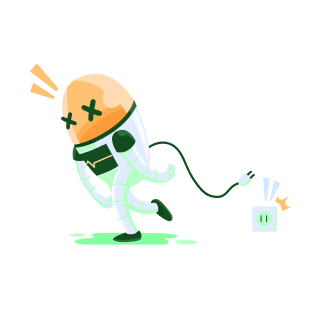
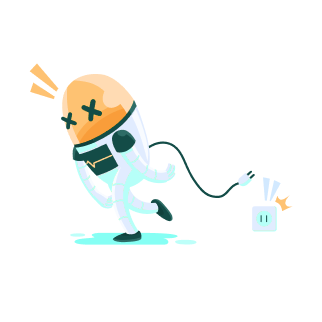
feat: switch brand color from green to Persian turquoise
Swap every green hex (main, hover, borders, secondary, tint, loader,
scrollbar) for its turquoise counterpart, and hue-shift the green
icons, illustrations and logo to match.

diff --git a/src/layout/Header.js b/src/layout/Header.js
@@ -11,7 +11,7 @@ import { useGetUserInfo } from "@/hooks/queries";
 import UserProfile from "@/atoms/userProfile";
 import ThemeToggle from "@/atoms/ThemeToggle";
 
-// `mono` icons are near-black and get inverted in dark mode; home.png is already green.
+// `mono` icons are near-black and get inverted in dark mode; home.png is already brand-colored.
 const navLinks = [
   { href: "/", label: "صفحه اصلی", icon: "/images/home.png", alt: "home-img" },
   {
@@ -130,7 +130,7 @@ export default function Header() {
                     href={link.href}
                     className={`text-base no-underline ${
                       active
-                        ? "font-semibold text-[#28a745]"
+                        ? "font-semibold text-[#0d9488]"
                         : "font-normal text-text"
                     }`}
                   >
@@ -156,8 +156,8 @@ export default function Header() {
               <li key={link.label}>
                 <Link
                   href={link.href}
-                  className={`text-base font-normal no-underline transition-colors duration-300 hover:text-[#1ea34a] md:text-[15px] lg:text-base ${
-                    pathname === link.href ? "text-[#28a745]" : "text-text"
+                  className={`text-base font-normal no-underline transition-colors duration-300 hover:text-[#0f766e] md:text-[15px] lg:text-base ${
+                    pathname === link.href ? "text-[#0d9488]" : "text-text"
                   }`}
                 >
                   {link.label}
@@ -172,7 +172,7 @@ export default function Header() {
             <UserProfile data={user} />
           ) : (
             <button
-              className="flex h-[30px] cursor-pointer items-center gap-1.5 rounded-lg border-2 border-solid border-[#1ea34a] bg-transparent text-sm font-semibold text-[#1ea34a] transition-all duration-300 hover:bg-[#6eff9e] hover:text-white md:px-2.5 md:py-[15px]"
+              className="flex h-[30px] cursor-pointer items-center gap-1.5 rounded-lg border-2 border-solid border-[#0f766e] bg-transparent text-sm font-semibold text-[#0f766e] transition-all duration-300 hover:bg-[#0f766e] hover:text-white md:px-2.5 md:py-[15px]"
               onClick={() => setIsOn((s) => !s)}
             >
               <Image

diff --git a/src/components/modules/Call.js b/src/components/modules/Call.js
@@ -5,13 +5,13 @@ import Link from "next/link";
 function Call() {
   return (
     <div className="mx-auto mt-[100px] mb-5 w-full max-w-[327px] xs:flex xs:max-w-[730px] xs:px-8 md:mt-[70px] md:mb-10 md:max-w-[990px] md:px-12 lg:max-w-[1150px]">
-      <div className="relative h-[130px] rounded-t-[10px] border-x border-t border-[#218838] bg-[#28a745] px-2.5 py-3 xs:top-0 xs:right-1.5 xs:z-2 xs:h-[172px] xs:w-[70%] xs:rounded-[10px] xs:border-b lg:h-[200px]">
+      <div className="relative h-[130px] rounded-t-[10px] border-x border-t border-[#0f766e] bg-[#0d9488] px-2.5 py-3 xs:top-0 xs:right-1.5 xs:z-2 xs:h-[172px] xs:w-[70%] xs:rounded-[10px] xs:border-b lg:h-[200px]">
         <div className="z-2 flex flex-col gap-1.5 text-white md:px-[5px] lg:px-10 lg:py-2.5">
           <div className="flex items-center gap-1 md:gap-[9px]">
             <p className="m-0 text-[22px] font-normal text-white xs:text-[28px] md:text-[34px] lg:text-5xl">
               خرید تلفنی از
             </p>
-            <span className="text-[22px] font-extrabold text-[#10411b] xs:text-[28px] md:text-[34px] lg:text-5xl">
+            <span className="text-[22px] font-extrabold text-[#134e4a] xs:text-[28px] md:text-[34px] lg:text-5xl">
               تورینو
             </span>
           </div>
@@ -34,7 +34,7 @@ function Call() {
         <div>
           <Link
             href="#"
-            className="inline-block rounded-lg bg-[#10411b] px-[30px] py-1.5 text-sm font-semibold text-white no-underline transition-colors duration-200 hover:bg-[#218838]"
+            className="inline-block rounded-lg bg-[#134e4a] px-[30px] py-1.5 text-sm font-semibold text-white no-underline transition-colors duration-200 hover:bg-[#0f766e]"
           >اطلاعات بیشتر</Link>
         </div>
       </div>

diff --git a/src/components/modules/Find.js b/src/components/modules/Find.js
@@ -184,7 +184,7 @@ function Find({ onSearch, data }) {
     <div className="mx-auto mb-[45px] max-w-[390px] px-4 xs:mb-[60px] xs:max-w-[720px] xs:px-8 md:mb-20 md:max-w-[800px] md:px-12">
       <div className="w-full lg:mx-auto lg:max-w-[1200px]">
         <div className="flex items-center justify-center gap-[7px] lg:mb-2.5">
-          <span className="text-base font-semibold text-[#28a745] xs:text-[15px] md:text-[22px] lg:text-[28px]">تورینو</span>
+          <span className="text-base font-semibold text-[#0d9488] xs:text-[15px] md:text-[22px] lg:text-[28px]">تورینو</span>
           <p className="text-base font-semibold text-fg/65 xs:text-[15px] md:text-[22px] lg:text-[28px]">
             برگزار کننده بهترین تور های داخلی و خارجی</p>
         </div>
@@ -319,7 +319,7 @@ function Find({ onSearch, data }) {
                 </div>
               )}
             />
-            <button type="submit" className="mt-[15px] h-[47px] w-full rounded-2xl border-none bg-[#28a745] text-xl font-normal text-white transition-all duration-200 ease-in hover:bg-[#6eff9e] hover:text-white md:mx-auto md:h-[50px] md:w-[55%] lg:m-0 lg:w-1/5 lg:shrink-0 lg:shadow-none">
+            <button type="submit" className="mt-[15px] h-[47px] w-full rounded-2xl border-none bg-[#0d9488] text-xl font-normal text-white transition-all duration-200 ease-in hover:bg-[#0f766e] hover:text-white md:mx-auto md:h-[50px] md:w-[55%] lg:m-0 lg:w-1/5 lg:shrink-0 lg:shadow-none">
               جستجو
             </button>
           </div>

diff --git a/src/app/profile/layout.js b/src/app/profile/layout.js
@@ -58,7 +58,7 @@ export default function ProfileLayout({ children }) {
                   href={link.href}
                   className={`flex items-center gap-[7px] text-sm no-underline transition-colors duration-300 ${
                     active
-                      ? "font-semibold text-[#28a745]"
+                      ? "font-semibold text-[#0d9488]"
                       : "font-normal text-text"
                   }`}
                 >
@@ -76,7 +76,7 @@ export default function ProfileLayout({ children }) {
                 <li
                   key={link.href}
                   className={`relative flex flex-1 cursor-pointer items-center justify-center gap-[7px] py-2.5 text-center transition-all duration-300 after:absolute after:bottom-0 after:left-0 after:h-0.5 after:w-full after:transition-colors after:duration-300 after:content-[''] ${
-                    active ? "after:bg-[#009e60]" : "after:bg-line"
+                    active ? "after:bg-[#0d9488]" : "after:bg-line"
                   }`}
                 >
                   <Image
@@ -90,7 +90,7 @@ export default function ProfileLayout({ children }) {
                     href={link.href}
                     className={`flex items-center gap-[7px] text-xs no-underline transition-colors duration-300 ${
                       active
-                        ? "font-medium text-[#009e60]"
+                        ? "font-medium text-[#0d9488]"
                         : "font-normal text-muted"
                     }`}
                   >

diff --git a/src/components/modules/LoginModal.js b/src/components/modules/LoginModal.js
@@ -77,7 +77,7 @@ function LoginModal({ setIsOn, setOtp, setPhone }) {
             <div>
               <input
                 type="text"
-                className="w-full rounded-md border border-line px-[5px] py-5 text-[15px] font-light focus:border-[#166534] focus:outline-none lg:w-[95%] lg:px-1.5 lg:py-2.5"
+                className="w-full rounded-md border border-line px-[5px] py-5 text-[15px] font-light focus:border-[#115e59] focus:outline-none lg:w-[95%] lg:px-1.5 lg:py-2.5"
                 placeholder={toPersianNumber("4253***0912")}
                 {...register("mobile")}
               />
@@ -88,7 +88,7 @@ function LoginModal({ setIsOn, setOtp, setPhone }) {
             <button
               type="submit"
               disabled={isSubmitting}
-              className="mt-[1.8rem] h-[3.4rem] w-full cursor-pointer rounded-md border border-[#166534] bg-[#28a745] text-lg font-medium text-white transition-[background,transform] duration-200 hover:bg-[#6eff9e] hover:text-white disabled:cursor-not-allowed disabled:opacity-60 lg:h-12 lg:w-[98%]"
+              className="mt-[1.8rem] h-[3.4rem] w-full cursor-pointer rounded-md border border-[#115e59] bg-[#0d9488] text-lg font-medium text-white transition-[background,transform] duration-200 hover:bg-[#0f766e] hover:text-white disabled:cursor-not-allowed disabled:opacity-60 lg:h-12 lg:w-[98%]"
             >
               ارسال کد تایید
             </button>

diff --git a/src/components/modules/BankInfo.js b/src/components/modules/BankInfo.js
@@ -95,14 +95,14 @@ export default function BankInfo() {
           <div className="flex gap-2.5 pt-2.5 pb-[15px] lg:w-full lg:justify-end lg:pb-2.5 lg:pl-[25px]">
             <button
               type="submit"
-              className="w-full rounded-[5px] border-none bg-[#28a745] p-2 text-base font-semibold text-white transition-all duration-200 ease-in hover:bg-[#6eff9e] hover:text-white lg:w-1/5 lg:px-0 lg:py-[5px]"
+              className="w-full rounded-[5px] border-none bg-[#0d9488] p-2 text-base font-semibold text-white transition-all duration-200 ease-in hover:bg-[#0f766e] hover:text-white lg:w-1/5 lg:px-0 lg:py-[5px]"
               disabled={mutation.isLoading}
             >
               تایید
             </button>
             <button
               type="button"
-              className="w-full rounded-[5px] border-2 border-solid border-[#28a745] bg-surface p-2 text-base font-semibold text-[#28a745] transition-all duration-200 ease-in hover:bg-[#28a745] hover:text-white lg:w-1/5 lg:px-0 lg:py-[5px]"
+              className="w-full rounded-[5px] border-2 border-solid border-[#0d9488] bg-surface p-2 text-base font-semibold text-[#0d9488] transition-all duration-200 ease-in hover:bg-[#0d9488] hover:text-white lg:w-1/5 lg:px-0 lg:py-[5px]"
               onClick={() => setIsEditing((s) => !s)}
             >
               انصراف

diff --git a/src/components/modules/PersonalInfo.js b/src/components/modules/PersonalInfo.js
@@ -230,14 +230,14 @@ export default function PersonalInfo() {
             <div className="flex gap-2.5 px-5 pt-0 pb-2.5 md:w-full md:justify-end lg:pr-0 lg:pl-[25px]">
               <button
                 type="submit"
-                className={`${actionButton} border-none bg-[#28a745] text-white hover:bg-[#6eff9e] hover:text-white`}
+                className={`${actionButton} border-none bg-[#0d9488] text-white hover:bg-[#0f766e] hover:text-white`}
                 disabled={mutation.isLoading}
               >
                 تایید
               </button>
               <button
                 type="button"
-                className={`${actionButton} border-2 border-solid border-[#28a745] bg-surface text-[#28a745] hover:bg-[#28a745] hover:text-white`}
+                className={`${actionButton} border-2 border-solid border-[#0d9488] bg-surface text-[#0d9488] hover:bg-[#0d9488] hover:text-white`}
                 onClick={() => setIsEditing((s) => !s)}
               >
                 انصراف

diff --git a/src/components/modules/Tours.js b/src/components/modules/Tours.js
@@ -58,7 +58,7 @@ function Tours({ data, isLoading }) {
               <div className="flex items-center justify-between px-2.5 xs:py-[5px] lg:py-0.5">
                 <Link
                   href={`/Details/${tour.id}`}
-                  className="inline-block rounded bg-[#28a745] px-10 py-1 text-[15px] font-normal text-white no-underline hover:bg-[#6eff9e] hover:text-white md:px-[30px] lg:px-[25px] lg:py-0.5"
+                  className="inline-block rounded bg-[#0d9488] px-10 py-1 text-[15px] font-normal text-white no-underline hover:bg-[#0f766e] hover:text-white md:px-[30px] lg:px-[25px] lg:py-0.5"
                 >رزرو</Link>
                 <div className="flex items-center gap-1.5 text-xs font-normal text-text/80 md:gap-[3px] md:text-[10px]">
                   <span className="text-base font-normal text-[#009eca] md:text-[15px]">{toPersianNumber(convertToRial(tour.price))}</span>

diff --git a/src/components/modules/OtpModal.js b/src/components/modules/OtpModal.js
@@ -155,7 +155,7 @@ function OtpModal({ setOtp, phone, setIsOn }) {
             <button
               type="submit"
               disabled={isSubmitting}
-              className="mt-4 mb-2.5 h-[3.4rem] w-[95%] cursor-pointer rounded-md border border-[#166534] bg-[#28a745] text-lg font-medium text-white transition-[background,transform] duration-200 hover:bg-[#6eff9e] hover:text-white disabled:cursor-not-allowed disabled:opacity-60"
+              className="mt-4 mb-2.5 h-[3.4rem] w-[95%] cursor-pointer rounded-md border border-[#115e59] bg-[#0d9488] text-lg font-medium text-white transition-[background,transform] duration-200 hover:bg-[#0f766e] hover:text-white disabled:cursor-not-allowed disabled:opacity-60"
             >
               ورود به تورینو
             </button>

diff --git a/src/app/not-found.js b/src/app/not-found.js
@@ -15,7 +15,7 @@ function Notfound() {
         <h1 className="-mt-2.5 mb-[30px] text-2xl font-semibold text-text md:text-[28px] lg:mb-[70px] lg:text-4xl">صفحه مورد نظر یافت نشد!</h1>
         <Link
           href="/"
-          className="rounded-2xl bg-[#d8ffe1] dark:bg-[#28a74526] px-5 py-2.5 text-xl font-normal text-[#28a745] no-underline transition-all duration-100 ease-in hover:bg-[#6eff9e] hover:text-white md:text-[22px] lg:text-[28px]"
+          className="rounded-2xl bg-[#ccfbf1] dark:bg-[#0d948826] px-5 py-2.5 text-xl font-normal text-[#0d9488] no-underline transition-all duration-100 ease-in hover:bg-[#0f766e] hover:text-white md:text-[22px] lg:text-[28px]"
         >بازگشت به صفحه اصلی</Link>
         </div>
       </div>

diff --git a/src/components/modules/UserInfo.js b/src/components/modules/UserInfo.js
@@ -72,7 +72,7 @@ export default function UserInfo() {
             </div>
             <button
               type="submit"
-              className="w-[30%] rounded-[5px] border-none bg-[#28a745] px-0 py-[5px] text-base font-normal text-white transition-all duration-200 ease-in hover:bg-[#6eff9e] hover:text-white lg:w-2/5"
+              className="w-[30%] rounded-[5px] border-none bg-[#0d9488] px-0 py-[5px] text-base font-normal text-white transition-all duration-200 ease-in hover:bg-[#0f766e] hover:text-white lg:w-2/5"
               disabled={mutation.isLoading}
             >
               تایید

diff --git a/src/components/modules/TourCard.js b/src/components/modules/TourCard.js
@@ -27,7 +27,7 @@ function TourCard({ tour }) {
     <div className="relative mx-auto mb-5 w-[330px] max-w-full rounded-[10px] border border-line min-[392px]:w-[480px] md:w-[580px] lg:w-full">
       <div>
         {new Date(tour.endDate) < today ? (
-          <p className={`${status} bg-[#28a7454d] text-[#28a745]`}>به اتمام رسیده</p>
+          <p className={`${status} bg-[#0d94884d] text-[#0d9488]`}>به اتمام رسیده</p>
         ) : (
           <p className={`${status} bg-[#d1b9004d] text-[#d1b900]`}>در حال برگزاری</p>
         )}
